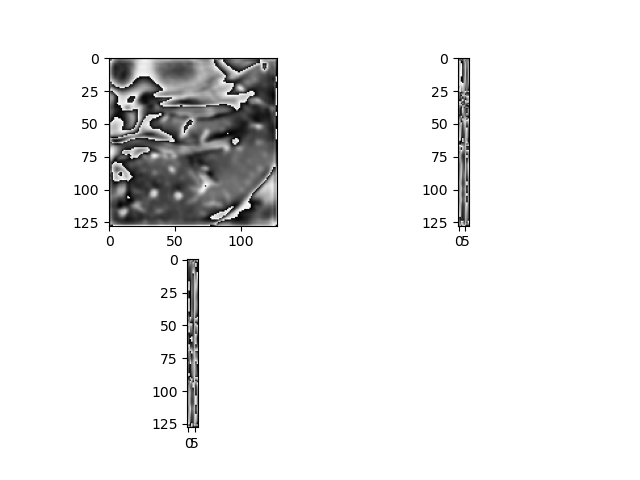
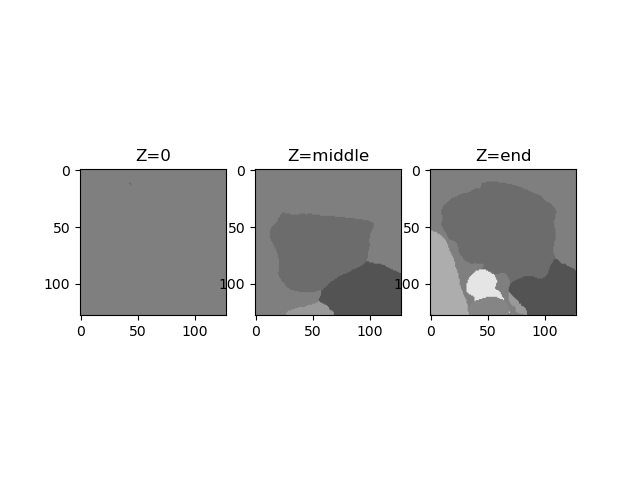
Test F1 fixes

Changed region(s): [[0.0625, 0.0938, 0.9062, 0.9375]]

diff --git a/test.py b/test.py
@@ -76,26 +76,28 @@ if __name__ == '__main__':
 
         # Calculate metrics
         for dir in ["A", "B"]:
-            seg = util.tensor2im(visuals["seg_" + dir].cpu())
-            truth = util.tensor2im(visuals["ground_truth_seg_" + dir].cpu())
+            seg = util.tensor2im(visuals["seg_" + dir])
+            truth = util.tensor2im(visuals["ground_truth_seg_" + dir])
             # change labels back to original values
             for i in range(len(labels_translate)):
                 seg[seg == i] = labels_translate[i]
-            metric = sklearn.metrics.f1_score(truth, seg)
+            metric = sklearn.metrics.f1_score(truth.flatten(), seg.flatten(), average='micro')
             if dir in scores:
-                scores[dir] = numpy.concatenate(scores[dir], numpy.array([metric]))
+                scores[dir] = numpy.concatenate((scores[dir], numpy.array([metric])))
             else:
                 scores[dir] = numpy.array([metric])
 
     webpage.save()  # save the HTML
-    print("-"*50)
-    print("-"*20 + "Detaild scores:" + "-"*20)
-    print("-"*50)
-    print("CT Segmentation F1 Scores: {}".format(scores["A"]))
-    print("MRI Segmentation F1 Scores: {}".format(scores["B"]))
-    print("-"*50)
-    print("-"*20+ "Total scores:" + "-"*20)
-    print("-"*50)
-    print("CT Segmentation F1 Score: {}".format(numpy.mean(scores["A"])))
-    print("MRI Segmentation F1 Score: {}".format(numpy.mean(scores["B"])))
+    # print results
+    print("\n\n|{}|".format("-"*100))
+    print("|" + "-"*42 + "Detaild scores: " + "-"*42 + "|")
+    print("|{}|".format("-"*100))
+    print("|{}CT  Segmentation F1 Scores: {}{}|".format(" "*13, str(scores["A"]), " "*14))
+    print("|{}MRI Segmentation F1 Scores: {}{}|".format(" "*13, str(scores["B"]), " "*14))
+    print("|{}|".format("-"*100))
+    print("|" + "-"*43+ "Total scores: " + "-"*43 + "|")
+    print("|{}|".format("-"*100))
+    print("|{}CT  Segmentation F1 Score: {}{}|".format(" "*30,numpy.mean(scores["A"]), " "*25))
+    print("|{}MRI Segmentation F1 Score: {}{}|".format(" "*30,numpy.mean(scores["B"]), " "*25))
+    print("|{}|".format("-"*100))
 

diff --git a/util/util.py b/util/util.py
@@ -49,21 +49,16 @@ def diagnose_network(net, name='network'):
 def save3Dimage_numpy(img3d, path):
 
         img_shape = img3d.shape
+        fig, (ax1, ax2, ax3) = plt.subplots(1, 3)
+        ax1.imshow(img3d[:, :, 0], cmap="gray")
+        ax1.title.set_text("Z=0")
+        ax2.imshow(img3d[:, :, img_shape[2]//2], cmap="gray")
+        ax2.title.set_text("Z=middle")
+        ax3.imshow(img3d[:, :, img_shape[2]-1], cmap="gray")
+        ax3.title.set_text("Z=end")
 
-        plt.subplot(2, 2, 1)
-        plt.imshow(img3d[:, :, img_shape[2]//2], cmap="gray")
-        # a1.set_aspect(ax_aspect)
-
-        plt.subplot(2, 2, 2)
-        plt.imshow(img3d[:, img_shape[1]//2, :], cmap="gray")
-        # a2.set_aspect(sag_aspect)
-
-        plt.subplot(2, 2, 3)
-        plt.imshow(img3d[img_shape[0]//2, :, :], cmap="gray")
-        # a3.set_aspect(cor_aspect)
-
-        # print(path)
         plt.savefig(path)
+        plt.close('all')
 
 def save_image(image_numpy, image_path, aspect_ratio=1.0):
     """Save a numpy image to the disk

diff --git a/util/visualizer.py b/util/visualizer.py
@@ -39,7 +39,6 @@ def save_images(webpage, visuals, image_path, aspect_ratio=1.0, width=256):
             for i in range(len(labels_translate)):
                 im_data[im_data == i] = labels_translate[i]
         im = util.tensor2im(im_data)
-        im = im[:, :,round(im.shape[2]/2)]
         image_name = '%s_%s.png' % (name, label)
         save_path = os.path.join(image_dir, image_name)
         util.save3Dimage_numpy(im, save_path)

diff --git a/models/base_model.py b/models/base_model.py
@@ -109,6 +109,7 @@ class BaseModel(ABC):
         with torch.no_grad():
             self.forward()
             self.compute_visuals()
+            self.get_segmentation_by_max()
 
     def compute_visuals(self):
         """Calculate additional output images for visdom and HTML visualization"""
